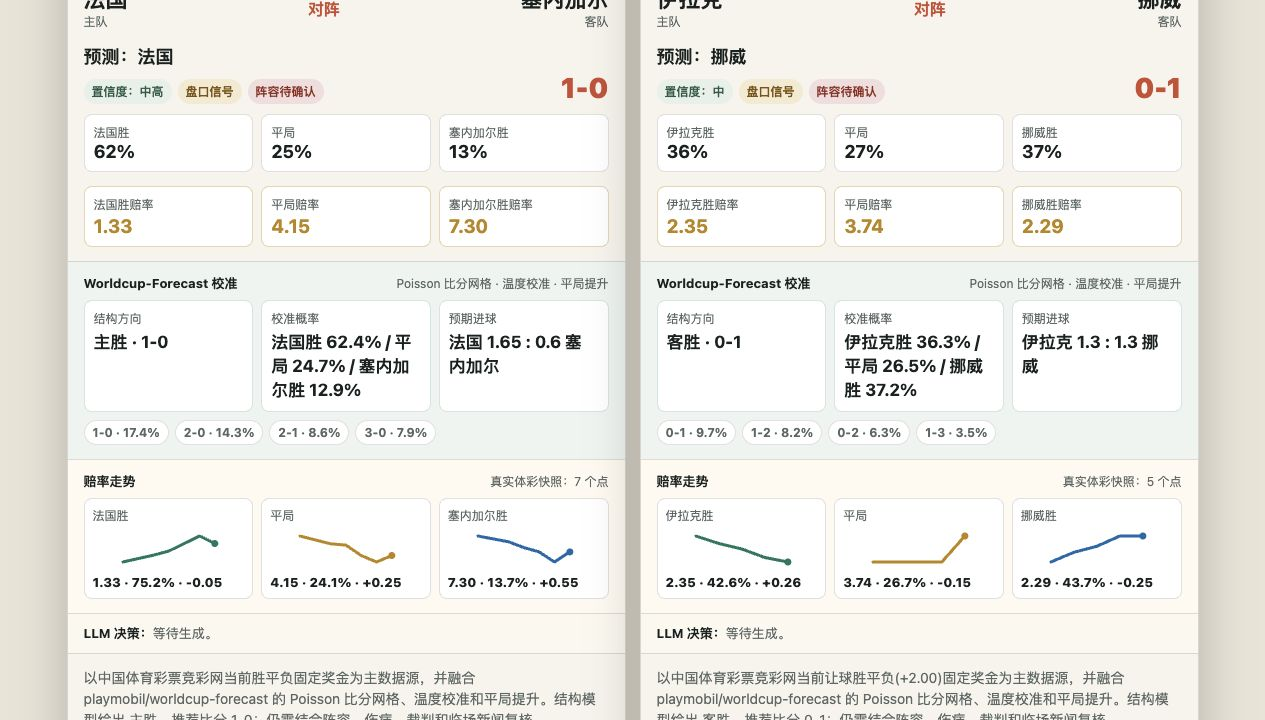
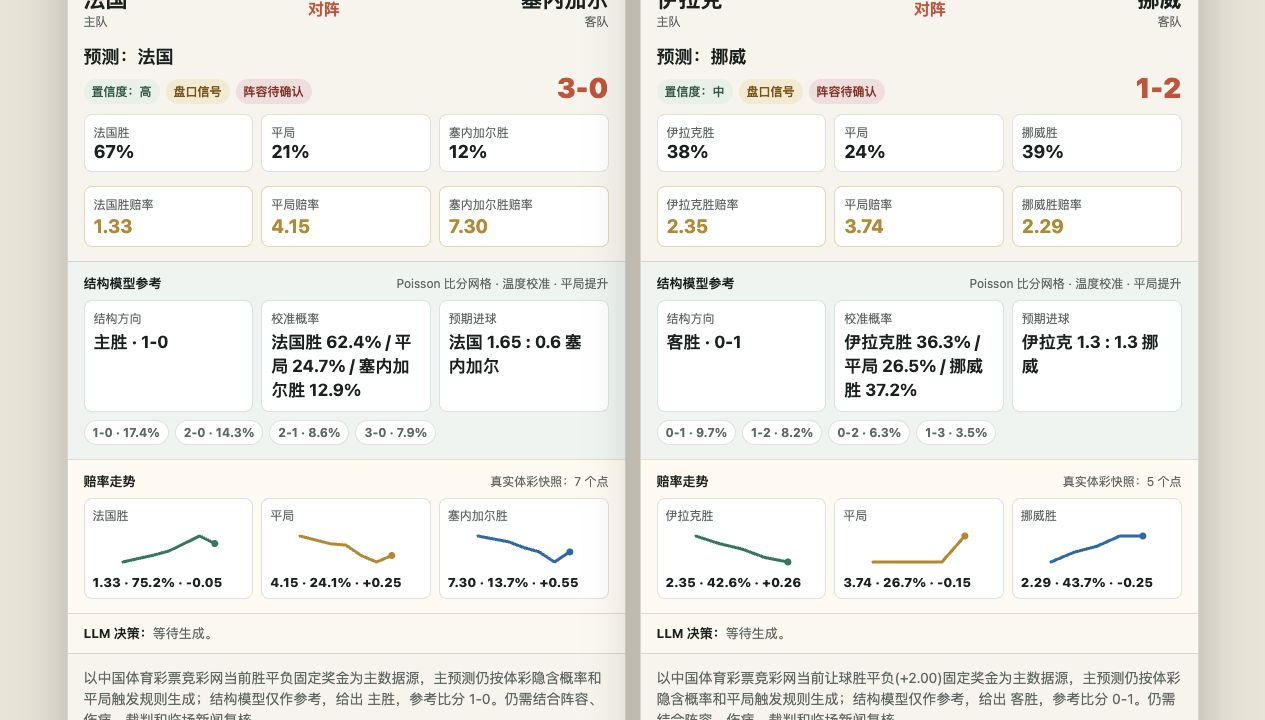
Make structural model a reference signal

diff --git a/index.html b/index.html
@@ -330,8 +330,8 @@
       <div class="grid" id="cards"></div>
       <section class="sources">
         <h2>来源与方法</h2>
-        <p>赛程、场地、转播时间与盘口线参考 ESPN 的世界杯赛程页面；赛程官方来源参考 FIFA 官方赛程/结果页面；球队实力层级参考 FIFA 男足世界排名页面。结构模型融合 playmobil/worldcup-forecast 的 Poisson 比分网格、温度校准和平局提升思路，线上版本不引入 PyMC 训练依赖，而是用体彩固定奖金去水概率作为输入。页面采用静态快照，生成时间为 2026-06-10。</p>
-        <p><a href="https://www.espn.com/soccer/schedule/_/league/fifa.world">ESPN 世界杯赛程</a> · <a href="https://www.fifa.com/en/tournaments/mens/worldcup/canadamexicousa2026/articles/match-schedule-fixtures-results-teams-stadiums">FIFA 官方赛程</a> · <a href="https://inside.fifa.com/fifa-world-ranking/men">FIFA 男足世界排名</a> · <a href="https://github.com/playmobil/worldcup-forecast">playmobil/worldcup-forecast</a></p>
+        <p>赛程、场地、转播时间与盘口线参考 ESPN 的世界杯赛程页面；赛程官方来源参考 FIFA 官方赛程/结果页面；球队实力层级参考 FIFA 男足世界排名页面。结构模型采用 Poisson 比分网格、温度校准和平局提升，线上版本以体彩固定奖金去水概率作为输入。页面采用静态快照，生成时间为 2026-06-10。</p>
+        <p><a href="https://www.espn.com/soccer/schedule/_/league/fifa.world">ESPN 世界杯赛程</a> · <a href="https://www.fifa.com/en/tournaments/mens/worldcup/canadamexicousa2026/articles/match-schedule-fixtures-results-teams-stadiums">FIFA 官方赛程</a> · <a href="https://inside.fifa.com/fifa-world-ranking/men">FIFA 男足世界排名</a></p>
       </section>
     </div>
   </main>
@@ -587,16 +587,8 @@ function refreshDateFilters(){
 function sportteryToMatch(item, idx){
   const decimal = item.decimal || [];
   const forecast = item.forecast || null;
-  const probs = Array.isArray(forecast?.probabilities) && forecast.probabilities.length >= 3
-    ? forecast.probabilities.slice(0, 3).map(v => Math.round(Number(v) || 0))
-    : probsFromDecimal(decimal);
-  const pick = forecast?.pick === '主胜'
-    ? {pick: item.home, api: '主胜'}
-    : forecast?.pick === '客胜'
-      ? {pick: item.away, api: '客胜'}
-      : forecast?.pick === '平局'
-        ? {pick: '平局', api: '平局'}
-        : pickFromProbs(item.home, item.away, probs);
+  const probs = probsFromDecimal(decimal);
+  const pick = pickFromProbs(item.home, item.away, probs);
   const marketCode = String(item.market_code || item.marketCode || 'HAD').toUpperCase();
   const goalLine = String(item.goal_line || item.goalLine || '').trim();
   const marketName = marketCode === 'HHAD' ? '让球胜平负' : '胜平负';
@@ -618,12 +610,12 @@ function sportteryToMatch(item, idx){
     goalLine,
     pick: pick.pick,
     api: pick.api,
-    score: forecast?.score || scoreFromMarket(pick.api, probs),
+    score: scoreFromMarket(pick.api, probs),
     conf: confFromProb(Math.max(...probs)),
     probs,
     forecast,
     why: forecast
-      ? `以中国体育彩票竞彩网当前${marketName}${marketSuffix}固定奖金为主数据源，并融合 playmobil/worldcup-forecast 的 Poisson 比分网格、温度校准和平局提升。结构模型给出 ${pick.api}，推荐比分 ${forecast.score || '-'}；仍需结合阵容、伤病、裁判和临场新闻复核。`
+      ? `以中国体育彩票竞彩网当前${marketName}${marketSuffix}固定奖金为主数据源，主预测仍按体彩隐含概率和平局触发规则生成；结构模型仅作参考，给出 ${forecast.pick || '-'}，参考比分 ${forecast.score || '-'}。仍需结合阵容、伤病、裁判和临场新闻复核。`
       : `以中国体育彩票竞彩网当前${marketName}${marketSuffix}固定奖金为主数据源。${pick.api}对应的隐含概率最高；仍需结合阵容、伤病、裁判和临场新闻复核。`
   };
 }
@@ -697,7 +689,7 @@ function renderForecastInsight(match){
   const chips = scores.map(item => `<span class="score-chip">${escapeHtml(item.score)} · ${escapeHtml(item.probability)}%</span>`).join('');
   return `
     <div class="forecast-box">
-      <div class="forecast-head"><b>Worldcup-Forecast 校准</b><span>Poisson 比分网格 · 温度校准 · 平局提升</span></div>
+      <div class="forecast-head"><b>结构模型参考</b><span>Poisson 比分网格 · 温度校准 · 平局提升</span></div>
       <div class="forecast-grid">
         <div class="forecast-metric"><span>结构方向</span><b>${escapeHtml(forecast.pick || match.api || '-')} · ${escapeHtml(forecast.score || match.score || '-')}</b></div>
         <div class="forecast-metric"><span>校准概率</span><b>${labels.map((label, idx) => `${label} ${Number(probs[idx] || 0).toFixed(1)}%`).join(' / ')}</b></div>

diff --git a/server.py b/server.py
@@ -1380,7 +1380,7 @@ def worldcup_forecast_from_market(home: str, away: str, decimal_odds: list[float
     top_scores = (direction_scores or scores)[:5]
     return {
         "type": "worldcup_forecast_poisson",
-        "source": "playmobil/worldcup-forecast MIT; adapted Poisson grid + temperature/draw calibration",
+        "source": "odds_calibrated_poisson",
         "method": "体彩固定奖金去水后，用 Poisson 比分网格拟合 1X2 概率，并套用 temperature=1.08 与 draw_boost=0.03 的校准层。",
         "home": home,
         "away": away,
@@ -1501,18 +1501,8 @@ def cn_datetime(date_text: str) -> str:
 def sporttery_item_to_match(item: dict, idx: int) -> dict:
     decimal = item.get("decimal") or []
     forecast = worldcup_forecast_from_market(item.get("home", ""), item.get("away", ""), decimal)
-    probs = [round(float(value)) for value in (forecast.get("probabilities") or [])]
-    if len(probs) != 3:
-        probs = probs_from_decimal(decimal)
-    api_pick = forecast.get("pick") or ""
-    if api_pick == "主胜":
-        pick = item.get("home", "")
-    elif api_pick == "客胜":
-        pick = item.get("away", "")
-    elif api_pick == "平局":
-        pick = "平局"
-    else:
-        pick, api_pick = pick_from_probs(item.get("home", ""), item.get("away", ""), probs)
+    probs = probs_from_decimal(decimal)
+    pick, api_pick = pick_from_probs(item.get("home", ""), item.get("away", ""), probs)
     market_code = str(item.get("market_code") or "HAD").upper()
     goal_line = str(item.get("goal_line") or "").strip()
     market_name = "让球胜平负" if market_code == "HHAD" else "胜平负"
@@ -1534,11 +1524,11 @@ def sporttery_item_to_match(item: dict, idx: int) -> dict:
         "goalLine": goal_line,
         "pick": pick,
         "api": api_pick,
-        "score": forecast.get("score") or score_from_market(api_pick, probs),
+        "score": score_from_market(api_pick, probs),
         "conf": conf_from_prob(max(probs)),
         "probs": probs,
         "forecast": forecast,
-        "why": f"以中国体育彩票竞彩网当前{market_name}{market_suffix}固定奖金为主数据源，并融合 playmobil/worldcup-forecast 的 Poisson 比分网格、温度校准和平局提升。结构模型给出 {api_pick}，推荐比分 {forecast.get('score') or '-'}；仍需结合阵容、伤病、裁判和临场新闻复核。",
+        "why": f"以中国体育彩票竞彩网当前{market_name}{market_suffix}固定奖金为主数据源，主预测仍按体彩隐含概率和平局触发规则生成；结构模型仅作参考，给出 {forecast.get('pick') or '-'}，参考比分 {forecast.get('score') or '-'}。仍需结合阵容、伤病、裁判和临场新闻复核。",
     }
 
 
@@ -2070,10 +2060,10 @@ def collect_match_intelligence(match: dict) -> list[dict]:
         draw_assessment_from_probs(match.get("probs") or [], match.get("conf") or ""),
         {
             "type": "worldcup_forecast_poisson",
-            "title": "playmobil/worldcup-forecast inspired Poisson calibration",
-            "source": "https://github.com/playmobil/worldcup-forecast",
+            "title": "odds-calibrated Poisson structural model",
+            "source": "internal",
             "forecast": forecast,
-            "note": "融合其 Poisson 1X2、temperature calibration 和 neutral draw boost 思路；线上版本以体彩固定奖金去水概率作为输入，不引入 PyMC 训练依赖。",
+            "note": "使用 Poisson 1X2、temperature calibration 和平局提升；线上版本以体彩固定奖金去水概率作为输入，不引入训练框架依赖。",
         },
         {
             "type": "official_source",

diff --git a/README.md b/README.md
@@ -13,7 +13,7 @@
 - 自动读取中国体育彩票竞彩网世界杯固定奖金。
 - 以体彩售卖列表为主渲染比赛卡片。
 - 展示胜平负概率、赔率走势、模拟盘建议和 AI 分析。
-- 融合 Poisson 比分网格、温度校准和平局提升，展示结构模型预测轨道。
+- 融合 Poisson 比分网格、温度校准和平局提升，展示结构模型参考轨道。
 - 支持 LLM 自动生成模拟下注计划。
 - 支持多用户模拟账户，按账户 ID 区分资金、持仓和 LLM 下注历史。
 - LLM 下注历史、持仓和账户状态保存到后端 SQLite。
@@ -65,7 +65,7 @@ sing-box*.json
 
 本项目只用于预测研究和模拟盘复盘，不提供真实下注能力，也不构成投注建议。
 
-结构模型参考 [playmobil/worldcup-forecast](https://github.com/playmobil/worldcup-forecast) 的 MIT 开源实现思路，线上版本采用轻量 Poisson 网格与校准层，不引入训练框架依赖。
+结构模型采用轻量 Poisson 比分网格与校准层，以体彩固定奖金去水概率作为输入，不引入训练框架依赖。
 
 ## 赛果复盘
 